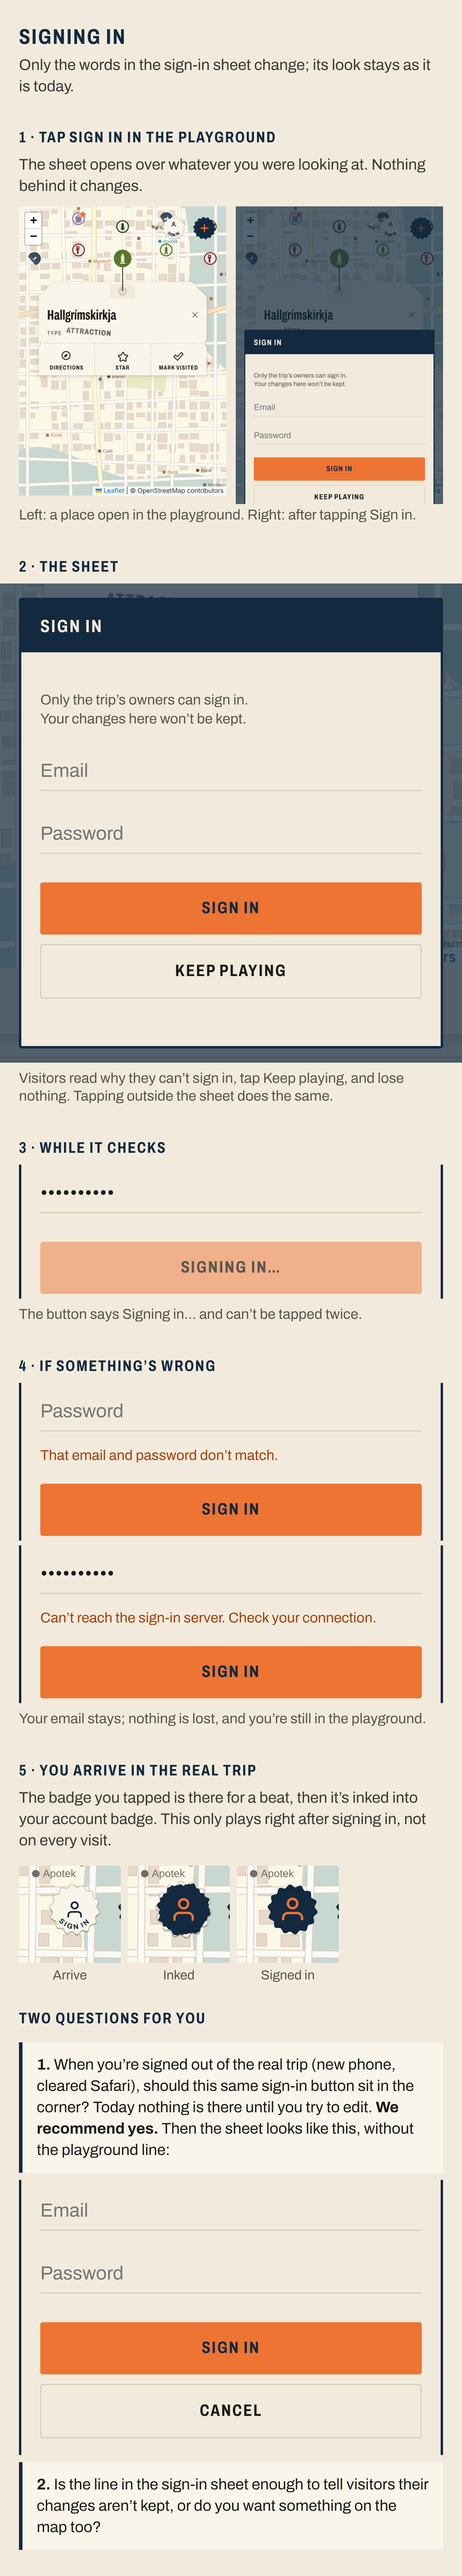
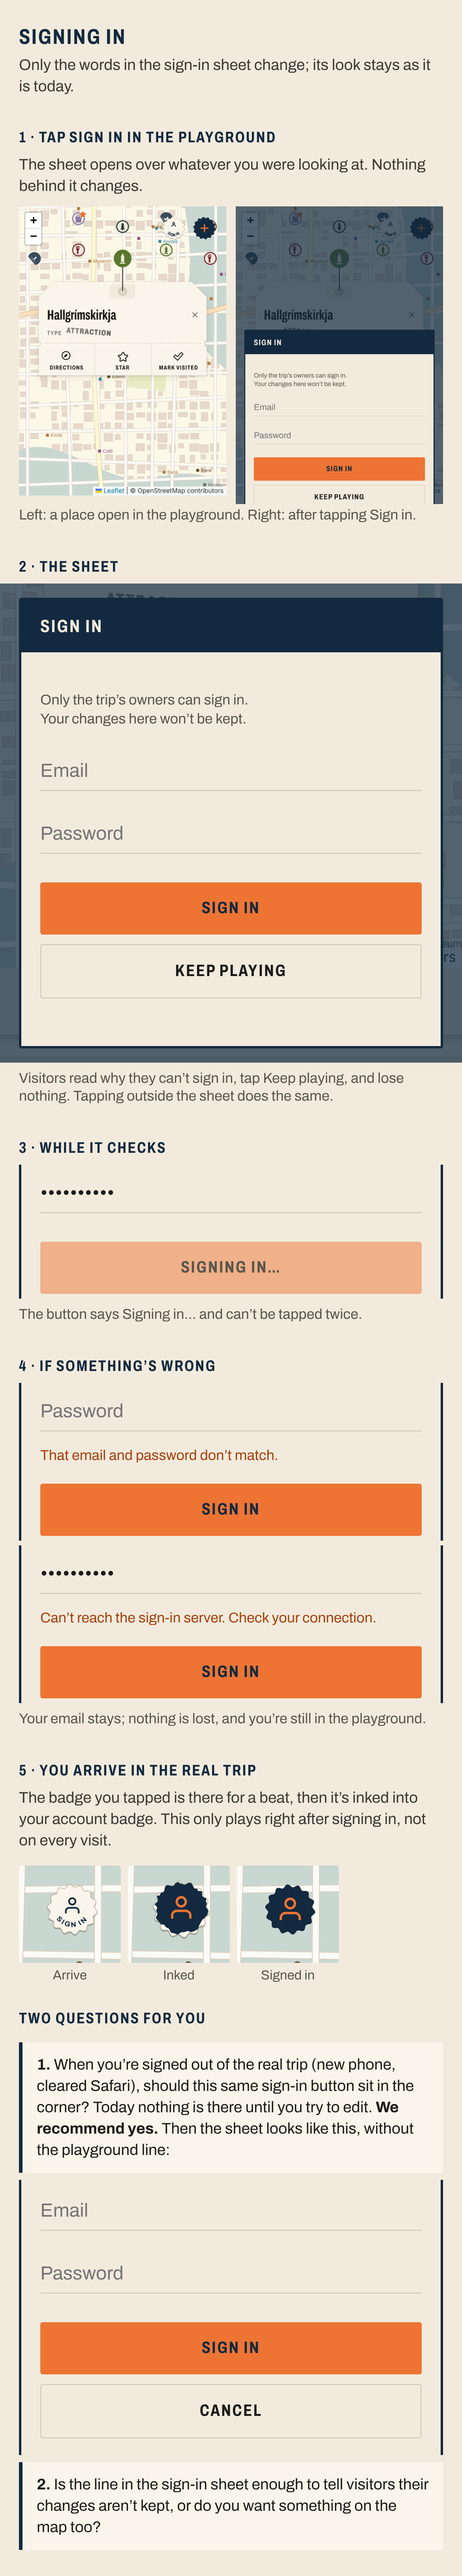
Sign-in badge handoff: how it looks and feels (V[14], focus ring, Strike, dry-up); flow frame 5 to 2e
Claude-Session: https://claude.ai/code/session_01DgU7ophvEWkwzRHqdd2X8u

Changed region(s): [[0.0308, 0.7165, 0.2462, 0.7789], [0.5231, 0.7165, 0.7077, 0.7789], [0.2769, 0.7165, 0.4615, 0.7789]]

diff --git a/design/signin-button/concepts/flow/sheet.html b/design/signin-button/concepts/flow/sheet.html
@@ -1,2 +1,2 @@
 <!doctype html><html><head><meta charset="utf-8"><meta name="viewport" content="width=390"><title>Sign-in flow</title>
-<link rel="stylesheet" href="proto/sheet.css"><script>window.__CONCEPT='A'</script><script src="proto/patch.js"></script></head><body><h1>Signing in</h1><p>Only the words in the sign-in sheet change; its look stays as it is today.</p><h2>1 · Tap Sign in in the playground</h2><p>The sheet opens over whatever you were looking at. Nothing behind it changes.</p><div style="display:flex;gap:8px;padding:0 16px"><img src="shots/play-tag-open.png" width="175" height="251"><img src="shots/play-sheet-full.png" width="175" height="251"></div><div class="cap">Left: a place open in the playground. Right: after tapping Sign in.</div><h2>2 · The sheet</h2><img class="img" src="shots/sheet-open.png" width="390" height="404" style=""><div class="cap">Visitors read why they can’t sign in, tap Keep playing, and lose nothing. Tapping outside the sheet does the same.</div><h2>3 · While it checks</h2><img class="img" src="shots/sheet-busy.png" width="358" height="113" style="margin-left:16px"><div class="cap">The button says Signing in… and can’t be tapped twice.</div><h2>4 · If something’s wrong</h2><img class="img" src="shots/sheet-wrong.png" width="358" height="133" style="margin-left:16px"><img class="img" src="shots/sheet-offline.png" width="358" height="133" style="margin-left:16px"><div class="cap">Your email stays; nothing is lost, and you’re still in the playground.</div><h2>5 · You arrive in the real trip</h2><p>The badge you tapped is there for a beat, then it’s inked into your account badge. This only plays right after signing in, not on every visit.</p><div class="frames"><div style="width:86px"><img src="../A-arc-badge/round2/shots/in-0.png" width="86" height="82"><div class="t">Arrive</div></div><div style="width:86px"><img src="../A-arc-badge/round2/shots/in-130.png" width="86" height="82"><div class="t">Inked</div></div><div style="width:86px"><img src="../A-arc-badge/round2/shots/in-380.png" width="86" height="82"><div class="t">Signed in</div></div></div><h2>Two questions for you</h2><div class="q"><b>1.</b> When you’re signed out of the real trip (new phone, cleared Safari), should this same sign-in button sit in the corner? Today nothing is there until you try to edit. <b>We recommend yes.</b> Then the sheet looks like this, without the playground line:</div><img class="img" src="shots/sheet-real.png" width="358" height="232" style="margin-left:16px"><div class="q"><b>2.</b> Is the line in the sign-in sheet enough to tell visitors their changes aren’t kept, or do you want something on the map too?</div><div style="height:16px"></div></body></html>
+<link rel="stylesheet" href="proto/sheet.css"><script>window.__CONCEPT='A'</script><script src="proto/patch.js"></script></head><body><h1>Signing in</h1><p>Only the words in the sign-in sheet change; its look stays as it is today.</p><h2>1 · Tap Sign in in the playground</h2><p>The sheet opens over whatever you were looking at. Nothing behind it changes.</p><div style="display:flex;gap:8px;padding:0 16px"><img src="shots/play-tag-open.png" width="175" height="251"><img src="shots/play-sheet-full.png" width="175" height="251"></div><div class="cap">Left: a place open in the playground. Right: after tapping Sign in.</div><h2>2 · The sheet</h2><img class="img" src="shots/sheet-open.png" width="390" height="404" style=""><div class="cap">Visitors read why they can’t sign in, tap Keep playing, and lose nothing. Tapping outside the sheet does the same.</div><h2>3 · While it checks</h2><img class="img" src="shots/sheet-busy.png" width="358" height="113" style="margin-left:16px"><div class="cap">The button says Signing in… and can’t be tapped twice.</div><h2>4 · If something’s wrong</h2><img class="img" src="shots/sheet-wrong.png" width="358" height="133" style="margin-left:16px"><img class="img" src="shots/sheet-offline.png" width="358" height="133" style="margin-left:16px"><div class="cap">Your email stays; nothing is lost, and you’re still in the playground.</div><h2>5 · You arrive in the real trip</h2><p>The badge you tapped is there for a beat, then it’s inked into your account badge. This only plays right after signing in, not on every visit.</p><div class="frames"><div style="width:86px"><img src="../A-arc-badge/round2/shots/2e/in-0.png" width="86" height="82"><div class="t">Arrive</div></div><div style="width:86px"><img src="../A-arc-badge/round2/shots/2e/in-130.png" width="86" height="82"><div class="t">Inked</div></div><div style="width:86px"><img src="../A-arc-badge/round2/shots/2e/in-380.png" width="86" height="82"><div class="t">Signed in</div></div></div><h2>Two questions for you</h2><div class="q"><b>1.</b> When you’re signed out of the real trip (new phone, cleared Safari), should this same sign-in button sit in the corner? Today nothing is there until you try to edit. <b>We recommend yes.</b> Then the sheet looks like this, without the playground line:</div><img class="img" src="shots/sheet-real.png" width="358" height="232" style="margin-left:16px"><div class="q"><b>2.</b> Is the line in the sign-in sheet enough to tell visitors their changes aren’t kept, or do you want something on the map too?</div><div style="height:16px"></div></body></html>

diff --git a/design/signin-button/concepts/flow/proto/make-sheets.js b/design/signin-button/concepts/flow/proto/make-sheets.js
@@ -46,7 +46,7 @@ h += `<h2>2 · The sheet</h2>` + card('sheet-open.png', 'Visitors read why they 
 h += `<h2>3 · While it checks</h2>` + card('sheet-busy.png', 'The button says Signing in… and can’t be tapped twice.');
 h += `<h2>4 · If something’s wrong</h2>` + card('sheet-wrong.png', '') + card('sheet-offline.png', 'Your email stays; nothing is lost, and you’re still in the playground.');
 h += `<h2>5 · You arrive in the real trip</h2><p>The badge you tapped is there for a beat, then it’s inked into your account badge. This only plays right after signing in, not on every visit.</p>`;
-h += frames([['../A-arc-badge/round2/shots/in-0.png', 'Arrive'], ['../A-arc-badge/round2/shots/in-130.png', 'Inked'], ['../A-arc-badge/round2/shots/in-380.png', 'Signed in']], 86, 82, 1);
+h += frames([['../A-arc-badge/round2/shots/2e/in-0.png', 'Arrive'], ['../A-arc-badge/round2/shots/2e/in-130.png', 'Inked'], ['../A-arc-badge/round2/shots/2e/in-380.png', 'Signed in']], 86, 82, 1);
 h += `<h2>Two questions for you</h2><div class="q"><b>1.</b> When you’re signed out of the real trip (new phone, cleared Safari), should this same sign-in button sit in the corner? Today nothing is there until you try to edit. <b>We recommend yes.</b> Then the sheet looks like this, without the playground line:</div>`;
 h += card('sheet-real.png', '');
 h += `<div class="q"><b>2.</b> Is the line in the sign-in sheet enough to tell visitors their changes aren’t kept, or do you want something on the map too?</div><div style="height:16px"></div></body></html>`;

diff --git a/design/signin-button/handoff.md b/design/signin-button/handoff.md
@@ -242,12 +242,140 @@ and one `sessionStorage` key.
 
 ---
 
-## How it looks and feels (visual: TO BE WRITTEN by the visual designer)
+## How it looks and feels (visual)
 
-> Placeholder. The visual designer writes this section: the V[14] drawing as
-> built (die, edge, shadow, person, arc, `centerArcs()`), pressed and the
-> focus ring's look, the Strike and dry-up frames, the 0.13s blot fringe
-> watch, and the side-by-side check with the new +.
+The approved stills are `concepts/A-arc-badge/round2/sheet-2e-3x.png`. The reference drawing code is
+`concepts/A-arc-badge/round2/badge2.js` (`SB.badgeA({v:14})`, `blotPts`, `dryPts`, `inkLayer`, `centerArcs`).
+Port those functions as they are; the numbers below are what they draw. All units are the 50×50 viewBox, which is
+1:1 with CSS px at the button's size. Colours are the app's tokens; hex is given for checking only.
+
+### Signed out, rest (V[14])
+The button keeps `#accountBtn`'s box (50×50, `top: calc(var(--s4) + var(--chrome-top-inset))`, the slot's
+`right`). In this state the button itself paints nothing: `background: transparent; -webkit-mask-image: none;
+mask-image: none; box-shadow: none`. Everything is one inline SVG, `width="50" height="50" viewBox="0 0 50 50"`,
+`overflow: visible`, `aria-hidden="true"`, drawn bottom to top:
+
+1. **Contact shadow:** the 50-unit scallop polygon (the one in the CSS mask, starting `45.00,25.00`), fill
+   `rgba(0,0,0,.22)`, `transform="translate(0,1)"`. It's the minimum lift for paper on a cream map.
+2. **Die:** the same polygon, fill `--paper-raised` #FAF5EA, stroke `rgba(107,74,40,.22)` 1px,
+   `stroke-linejoin: round`. This is the warm edge approved on the sticker, as a shadow edge, not a keyline.
+3. **SIGN IN on a U:** `<path d="M8.4,23.2 A16.6,16.6 0 0 0 41.6,23.2">`, and on it `<text>` in Archivo, weight 700,
+   `font-stretch: 100%`, 6px, `letter-spacing: 1.3px`, fill `--navy` #12293F, `<textPath startOffset="26.73"
+   text-anchor="middle">` with the text `SIGN` + U+200A (hair space) + `IN`. Upright, no tilt, no texture,
+   full-strength ink. The arc's centre (25, 23.2) is deliberately not the die's centre, which is part of the approved
+   height.
+   - **Centring (must do):** Chromium sets textPath glyphs off-centre. Wrap the arc in `<g>` and rotate it about
+     (25, 23.2) so the first and last letters sit symmetric about 6 o'clock. Use `SB.centerArcs()`, run once after
+     `document.fonts.ready`; the measured result in Chromium is `rotate(2.91 25 23.2)`, ends at ±53.8°. If you'd
+     rather not measure at runtime, hard-code 2.91, but then the owner's iPhone check must confirm it's centred in
+     Safari.
+4. **Person:** the account glyph (lucide user: `M20 21v-2a4 4 0 0 0-4-4H8a4 4 0 0 0-4 4v2` plus a circle at (12,7),
+   r 4) in `<g transform="translate(16.84,13.44) scale(.68)">`. That's ×0.68, with its 24-unit box centred at
+   (25, 21.6). `fill: none`, stroke `--navy`, `stroke-width: 2.1324` (1.45px on screen), round caps and joins.
+
+The measured ink (2d/2e tables in the README) gives an ink-box centre of 27.35, 7.24px between the person and the
+caps, and at least 3.47px from any ink to the scallop's valleys.
+
+### Signed out, pressed
+The die's fill goes to `--paper-pressed` #DCD3C3. The ink stays navy, and the shadow and edge stay. No scale, no
+movement: it's pressed in, not lit up. (In the concept this is `#accountBtn.signin:active { --sb-face: #DCD3C3 }`
+with the die's fill `var(--sb-face, #FAF5EA)`.)
+
+### Signed out, hover (desktop)
+Only `cursor: pointer`. No hover look: the badge should stay quieter than +.
+
+### Focus-visible (both states)
+The mask clips anything drawn on the signed-in button, and a square outline round a scallop looks wrong, so the
+ring is its own element, drawn the same way in both states:
+- `#accountFocus`: a sibling placed after `#accountBtn`, `position: fixed`, same box as the button,
+  `pointer-events: none`, `z-index` one above the button, hidden by default and shown by
+  `#accountBtn:focus-visible + #accountFocus { display: block }`. Keep its `right` tied to the same
+  value as the button's.
+- Inside it, an SVG (viewBox 0 0 50 50, `overflow: visible`) has the same scallop polygon scaled
+  `transform="translate(25 25) scale(1.16) translate(-25 -25)"`, with `fill: none` and
+  `vector-effect: non-scaling-stroke`, drawn twice: first `--paper` at 4px, then `--navy` at 2px on top. That
+  gives a navy ring with a 1px paper halo each side, so it reads on the paper badge, on the navy badge and on the
+  darkest map. This is the app's double-ring pattern (`.seg button:focus-visible`: paper then navy), following the
+  scallop.
+- `#accountBtn:focus-visible { outline: none }`.
+
+### Sheet open
+The badge rests unchanged under the scrim. No open or active look in the signed-out state.
+
+### Signed in (all states)
+Today's `#accountBtn`, untouched: navy die (mask on), `--figure` person at 24px with stroke 2, today's `:active`,
+`.active` and `.active:active`.
+
+### State swap (any time the content changes)
+`#accountBtn` has `transition: background .15s, color .15s`. Turn it off for the swap (for example, add a class
+that sets `transition: none` for one frame), or a translucent navy square flashes for 150ms while the mask comes
+off. Swap the content, the classes and the `aria-label` in the same frame.
+
+### The Strike (signing in: arrival, flow 1, and in place, flow 4)
+It's one object changing ink: navy ink lands on the paper badge from the person outward. The navy words disappear
+under it (navy on navy, so there's no fade), and inside the ink the person turns orange and grows into the
+signed-in badge.
+
+- **Clock:** `STAR_POP_MS` (380ms). Drive everything below from one animation's `currentTime` (rAF), the way
+  `dryUp()` does.
+- **Scale (the whole button, `transform-origin: 50% 50%`):** STAR_POP's offsets and per-segment easings, scale
+  only, no rotation: `scale(1)` @0 → `scale(1.12)` @0.34 → `scale(0.97)` @0.65 → `scale(1)` @1. That's
+  STAR_POP's table with its rotations removed and the peak at 1.12 instead of 1.4: the badge is 50px, not a
+  star glyph.
+- **Ink and person** interpolate linearly between these keys (ms from the start):
+
+  | ms | blot radius r | t | scale (from above) | what you see |
+  |---|---|---|---|---|
+  | 0 | 0 (no blot) | 0 | 1 | the signed-out badge |
+  | 60 | 9 | 0.15 | ~1.06 | a navy blot under the person, which is going orange |
+  | 130 | **21** | 0.55 | 1.12 | the die nearly covered; a thin paper rim is left at the bottom tips |
+  | 250 | 24 | 0.9 | 0.97 | fully navy; the person almost full size |
+  | 380 | (done) | 1 | 1 | **swap** to the real signed-in button (today's markup and mask, transition off) |
+
+  - Person at t: scale `0.68 + 0.32t`, centre `(25, 21.6 + 3.4t)`, on-screen stroke `1.45 + 0.55t` px.
+  - Blot: `blotPts(r, cy(t))` (48 points, ±10% wobble), centred on the person's current centre, filled `--navy`,
+    clipped to the scallop. Inside the blot, draw the person again in `--brand-orange` #EE7434, clipped to the
+    blot (`inkLayer`). Outside the blot the navy person and words stay as they are.
+  - The words are never animated: the ink covers them.
+- **The 0.13s fringe fix (changed from the stills):** at 130ms the blot radius is **21**, not the stills' 19.5. At
+  19.5 a paper rim showed round every scallop tip, which read as a halo. At 21 a sliver of paper is left only at
+  the bottom tips, below the raised person, which reads as ink that's still spreading. Don't push it to 22.5 or
+  more: then the frame is just "already navy" and the ink loses its travel.
+- The paper badge's 1px contact shadow stays under the ink until the swap, then goes, as on today's badge. It's
+  1px at 380ms and invisible in practice.
+
+### The dry-up (signing out: departure, flow 3)
+The same object in reverse, with no pop: the navy ink dries back off the paper from the scallop's tips inward,
+thinnest first and centre last. The person shrinks and turns navy as the ink leaves it, and the navy words are
+revealed (they were there under the ink all along), not animated.
+
+- **Clock:** `DRY.MS` (540ms). The first frame replaces the signed-in button with the signed-out drawing plus a
+  full ink layer (k = 0), transition off, so nothing visibly changes at the start.
+- **Dry amount k(ms)**, using the app's `DRY` constants and `dryEaseThr` (no new curve):
+  `k = (1 − DRY.SNAP_GAIN) · dryEaseThr(min(1, ms / DRY.THR_MS)) + DRY.SNAP_GAIN · s²`, where
+  `s = clamp((ms − DRY.SNAP_FROM) / (DRY.MS − DRY.SNAP_FROM), 0, 1)`. Check values: k ≈ 0.10 at 150ms, 0.54 at
+  300ms, 0.76 at 450ms (the snap), 1 at 540ms.
+- **Each frame:** the ink layer is `inkLayer(dryPts(k, cy), orangePerson)` at opacity `1 − 0.25k`, and the person
+  is at `t = 1 − k` (same size and position formulas as the Strike). `dryPts` has 16 lobes that dry between the
+  scallop's tips first.
+- **At 540ms:** the ink layer is gone, leaving the plain signed-out badge with label "Sign in". Then the reload
+  (systems' flow 3).
+- No scale, no pop: the owner's rule for un-visit ("i dont think either should pop") applies.
+
+### Reduce Motion
+Neither plays. Swap straight to the end state in one frame (transition off): no cross-fade, no scale.
+
+### Sizes
+- 50×50 everywhere: 320px, 390px, desktop. The badge doesn't scale. At 320 it was checked in `shots/2e/top-v14-320.png`.
+- Retina: everything is SVG; the edge and shadow are 1 CSS px at any DPR, as on the map.
+- Dynamic Type doesn't change the drawing (systems' note stands).
+
+### Still to check (team, before the build closes)
+1. **Beside the new +:** the paper badge must read as the quieter of the two next to the redesigned + (job 4).
+   When the + crew has a still, put this badge in the same frame at real size. If + moves, both states of this
+   badge move together and nothing in the drawing changes.
+2. **On the owner's iPhone:** the 6px caps at weight 700 in Safari, the arc centring (2.91° is Chromium's
+   number), and the warm 1px edge on a real screen.
 
 ---
 
@@ -299,6 +427,29 @@ and one `sessionStorage` key.
   design, and the in-place success reuses the Strike.
 - **The other team's +:** this spec ties the badge to `#accountBtn`'s slot,
   not to an x coordinate, so the + redesign can't break it, only move it.
+
+### Why (visual)
+- **Paper signed out, navy signed in.** These are the owner's words: "I mean the style it was before I said to
+  change it to orange and blue". It also earns its place. Paper with navy print is the quietest thing in the
+  corner, so it sits below + in the hierarchy (secondary marks never outrank content or the primary action). The
+  two states now differ by die, ink, words and the person's size, not just the words, so job 2 holds at a glance.
+- **Printed, not stamped.** It's upright, untextured, full-strength ink with no rim and no tilt, so it can't be
+  mistaken for the VISITED stamp. The form's own words are printed; only the clerk's entries are stamped.
+- **The Strike is real printing.** Navy over navy print covers it, so the words vanish under the ink with no
+  invented fade, and the person reverses to orange, which is exactly how the signed-in badge is printed. One
+  object changes ink, so nothing slides or swaps. It's the owner's "stamp with some grow shrink... maybe the
+  same as the star", which is why it uses STAR_POP's timing.
+- **Peak 1.12, not STAR_POP's 1.4.** A 50px badge at 1.4 would cover + and the map's top edge. 1.12 is
+  visible on a phone without colliding with anything.
+- **The dry-up reuses the app's dry, with no pop.** The owner's un-visit rules ("dry up is the best", "thickest
+  things should dry up slowest", "a taaaad more snap", never pop) apply to any ink leaving paper. The tips are the
+  thin parts, so they go first; the snap is the same `DRY` constants. The badge uses a shrinking ink shape rather
+  than `dryUp()`'s blur filter, because that filter erodes thin strokes; on a 46px solid slab it would only
+  soften the edge and then fade.
+- **The focus ring follows the scallop.** A square ring round a die-cut badge is the "hard line that makes no
+  physical sense" the owner has turned down before. The double ring is the app's existing focus language.
+- **r 21 at 0.13s.** It's the stills' fringe watch, settled by rendering 19.5, 21 and 22.5 on water at 2.2×:
+  21 keeps the ink's travel without a halo.
 
 ---
 

diff --git a/design/signin-button/notes/visual.md b/design/signin-button/notes/visual.md
@@ -1,5 +1,21 @@
 # Visual designer notes: sign-in button
 
+## Handoff written (owner approved 2e: "Sign in is great")
+- `handoff.md` "How it looks and feels" + "Why (visual)" written. Exact values for V[14] (SVG layer by layer,
+  centerArcs = rotate(2.91 25 23.2) in Chromium), pressed, hover (cursor only), the focus ring (a sibling
+  `#accountFocus` with the scallop ×1.16, a paper 4px + navy 2px double ring, because the mask clips anything on the
+  button), the transition-off swap, the Strike (keyframe table, STAR_POP easings, scale peak 1.12, linear
+  r/t), the dry-up (k(ms) from the DRY constants + dryEaseThr; 0.10/0.54/0.76/1 at 150/300/450/540) and Reduce
+  Motion (instant swap).
+- Fringe fix settled: blot r 21 at 130ms (I rendered 19.5, 21 and 22.5; 21 leaves a sliver only at the bottom tips,
+  which reads as spreading ink; 22.5 loses the travel). The stills still show 19.5; the handoff says it changed.
+- Chose the shrinking-shape dry (dryPts) over the app's `dryUp()` blur filter: the filter erodes thin strokes and
+  would only soften a 46px slab and then fade. Timing still comes from the DRY constants.
+- Flow sheet frame 5 now points at `round2/shots/2e/in-*` (sheet.html + proto/make-sheets.js); `flow/sheet-3x.png`
+  re-shot. Its Q1 text is history (answered by the product).
+- Open: the badge beside the new + (job 4); iPhone checks (6px caps, arc centring in Safari, the warm edge).
+- Next: answer the builder's questions; the combined CD + UX check runs on the build.
+
 ## Round 2e (owner on 2d: "I forgot it was orange and blue when signed in so let's do white and blue signed out";
 ## clarified: "I mean the style it was before I said to change it to orange and blue")
 - I started on two readings of "white and blue": paper marks on the navy die, and a paper die with navy marks. The
